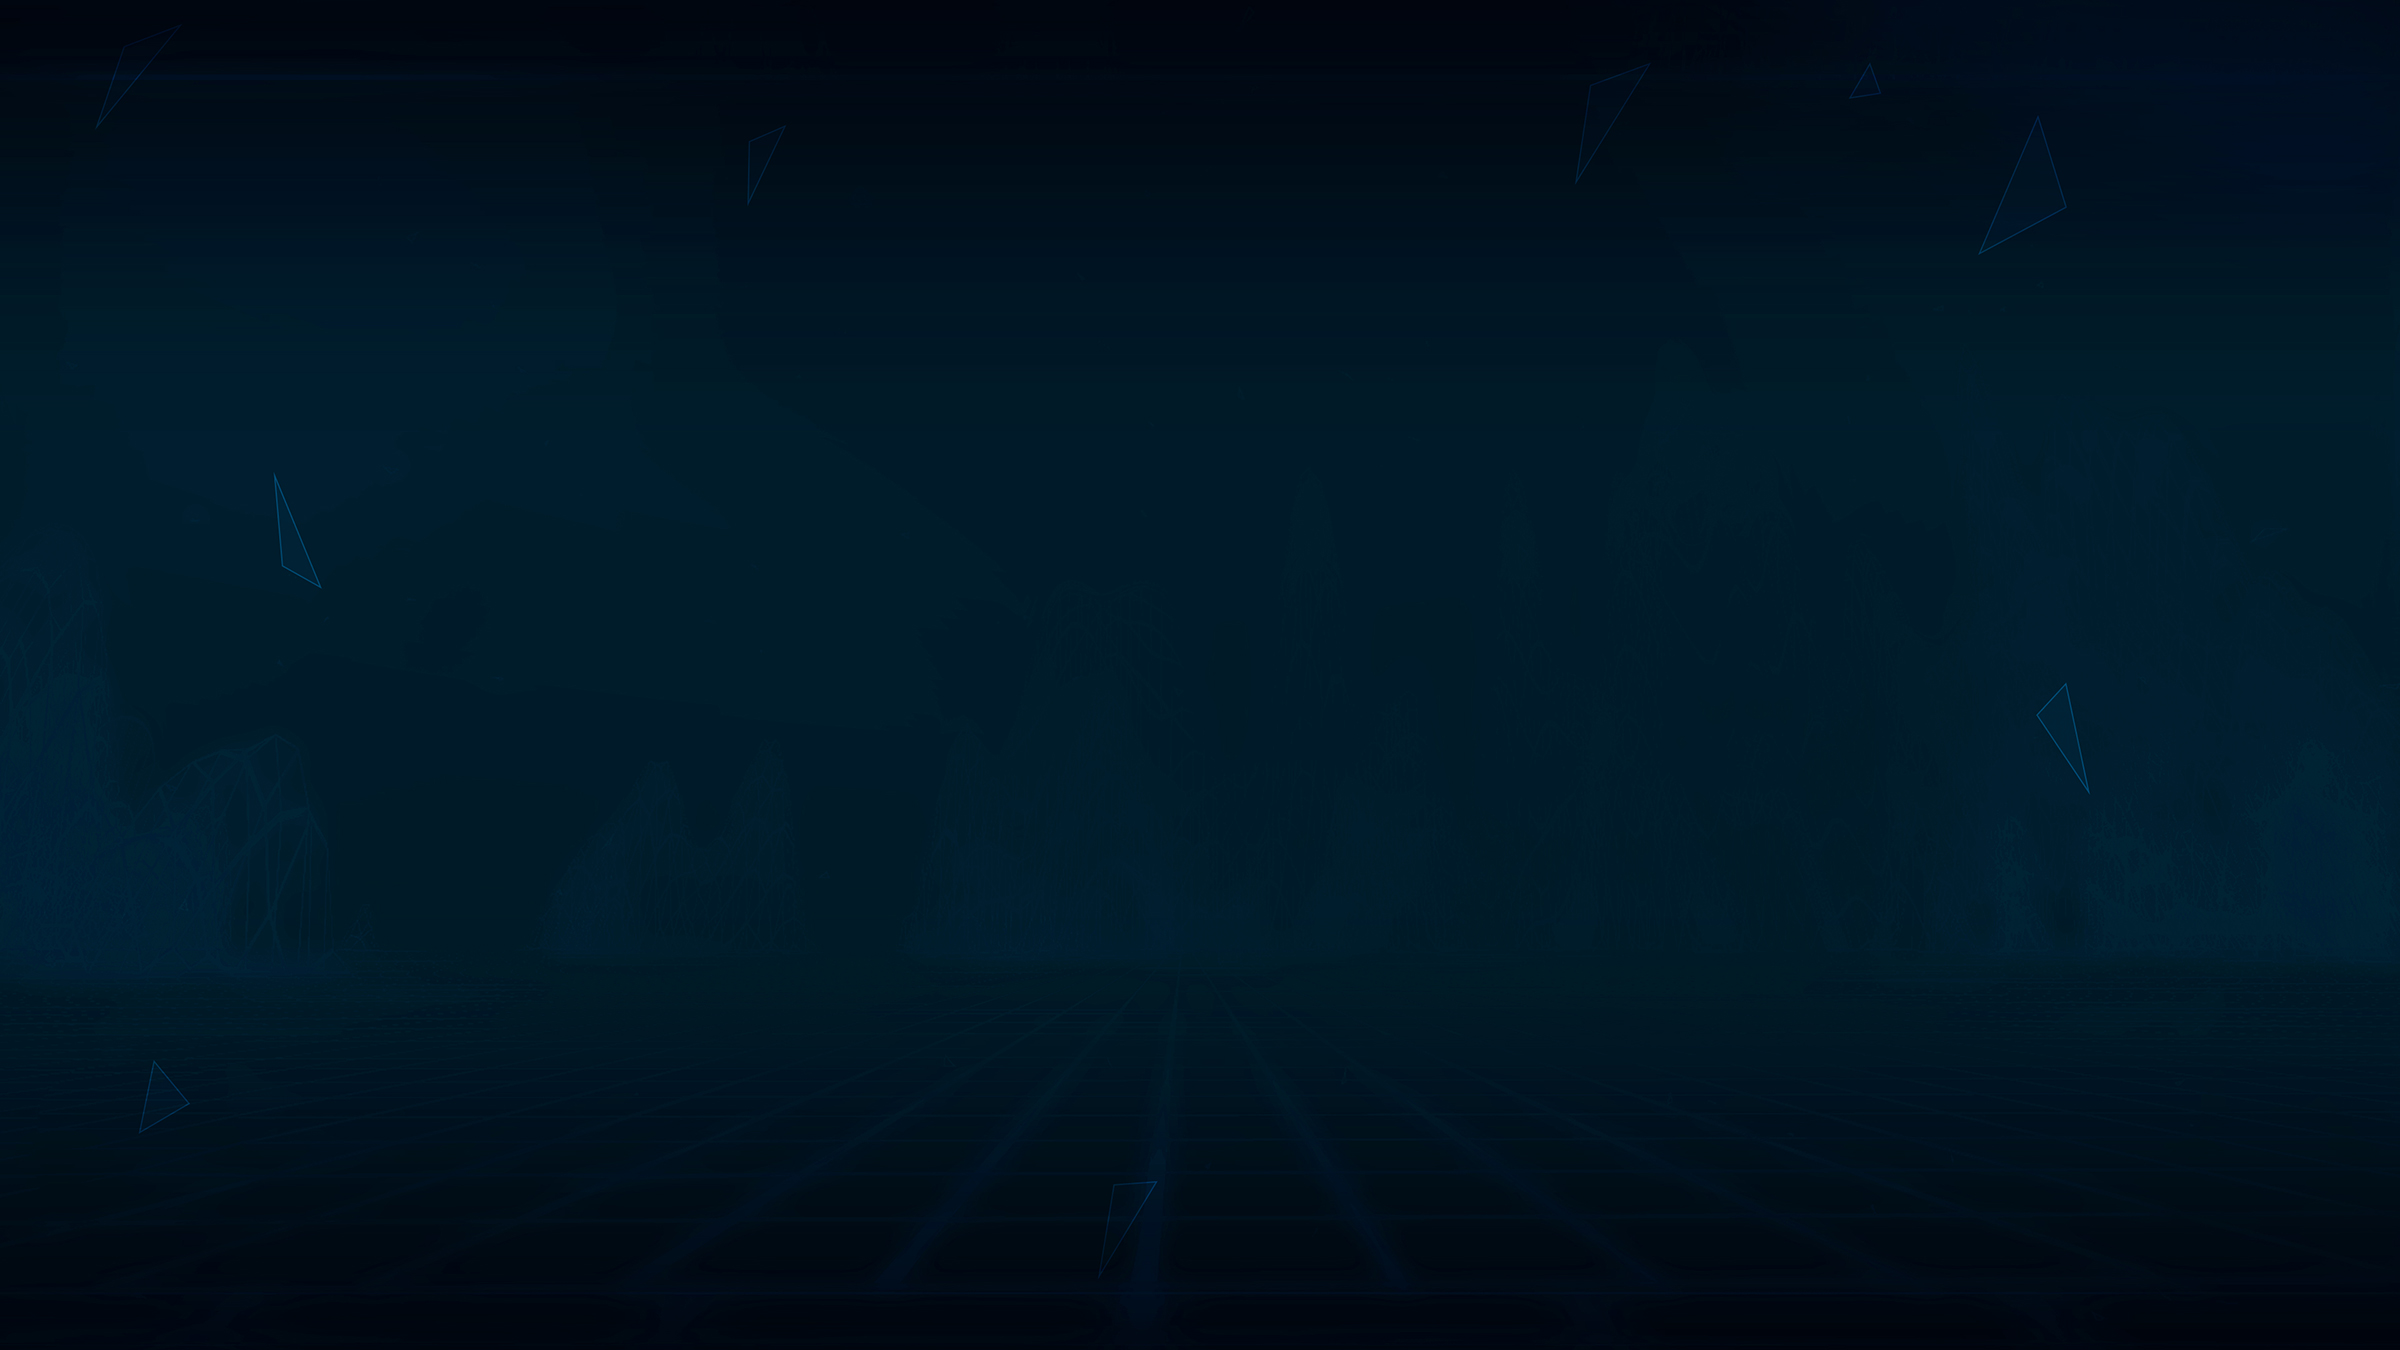
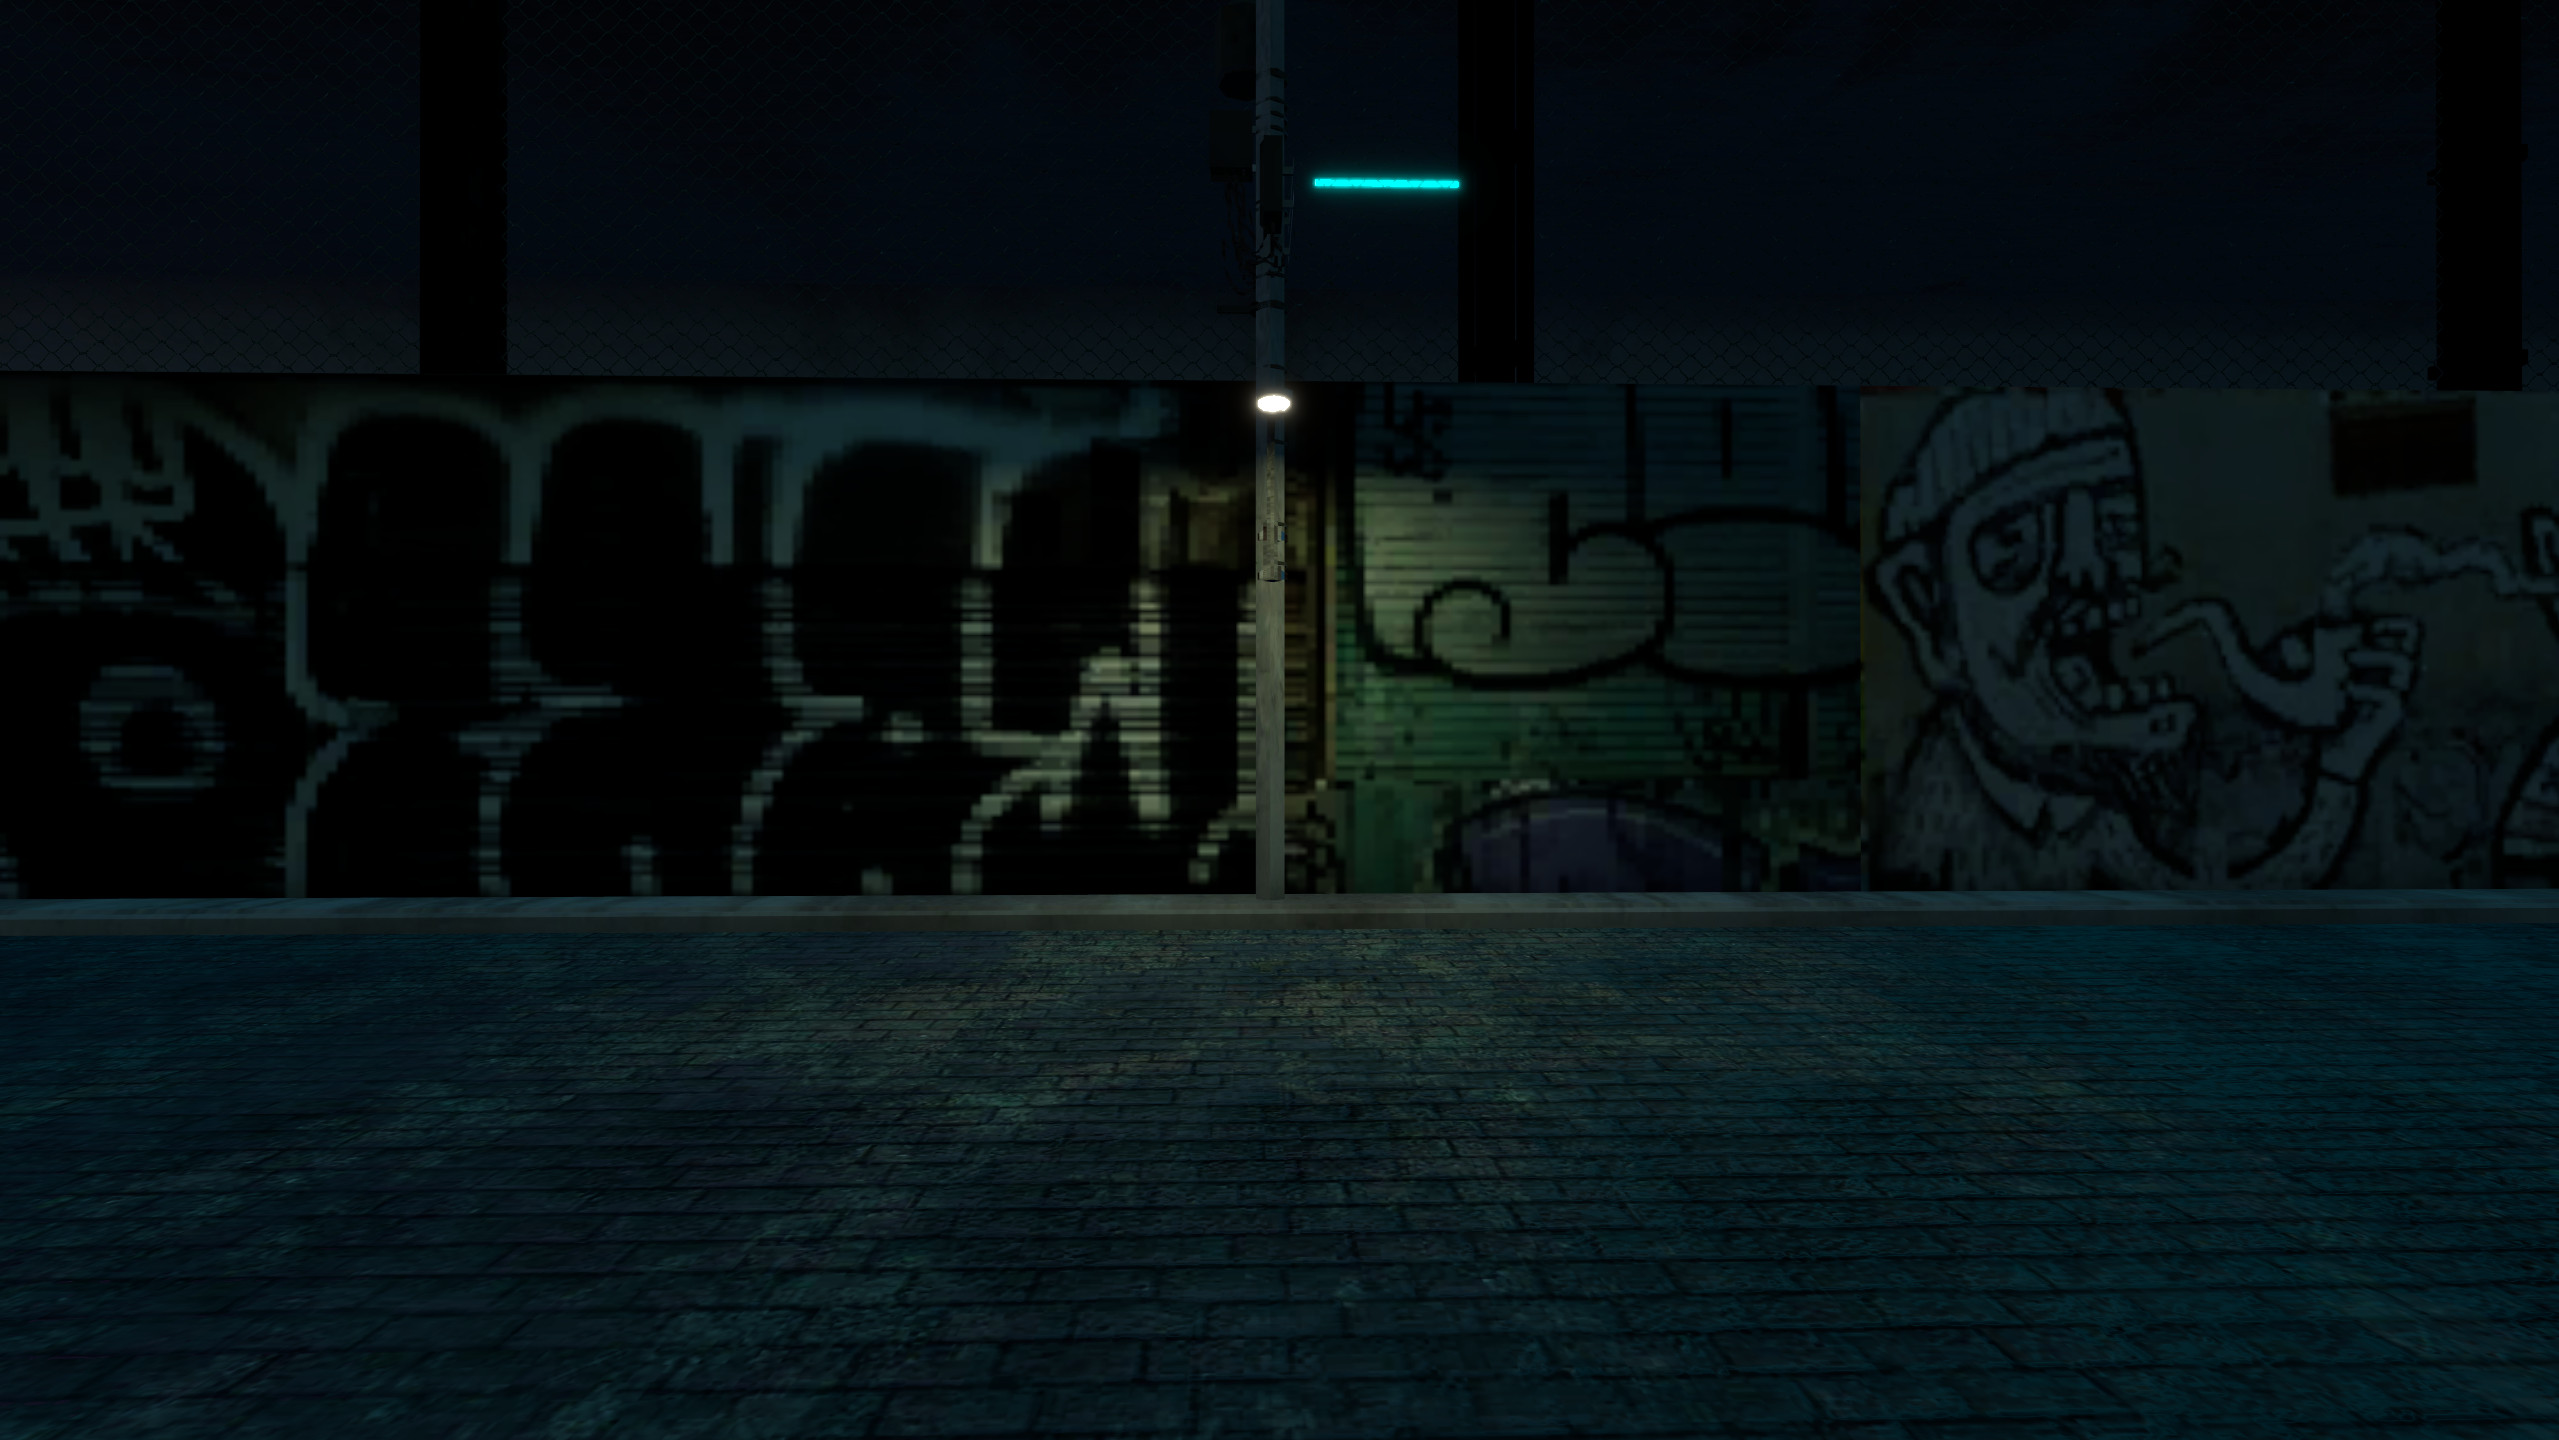
anata bg

diff --git a/src/components/Background.module.css b/src/components/Background.module.css
@@ -36,7 +36,7 @@
     left: 50%;
     top: 50%;
     transform: translate(-50%, -50%);
-    width: 100vh;
+    width: auto;
     height: 100vh;
-    opacity: 0.05;
+    opacity: 0.3;
   }

diff --git a/src/components/Background.jsx b/src/components/Background.jsx
@@ -1,6 +1,6 @@
 import React from "react"
 
-import logo from "../../public/ui/weba.png"
+import logo from "../../public/ui/anata.png"
 import styles from "./Background.module.css"
 
 export default function Background() {